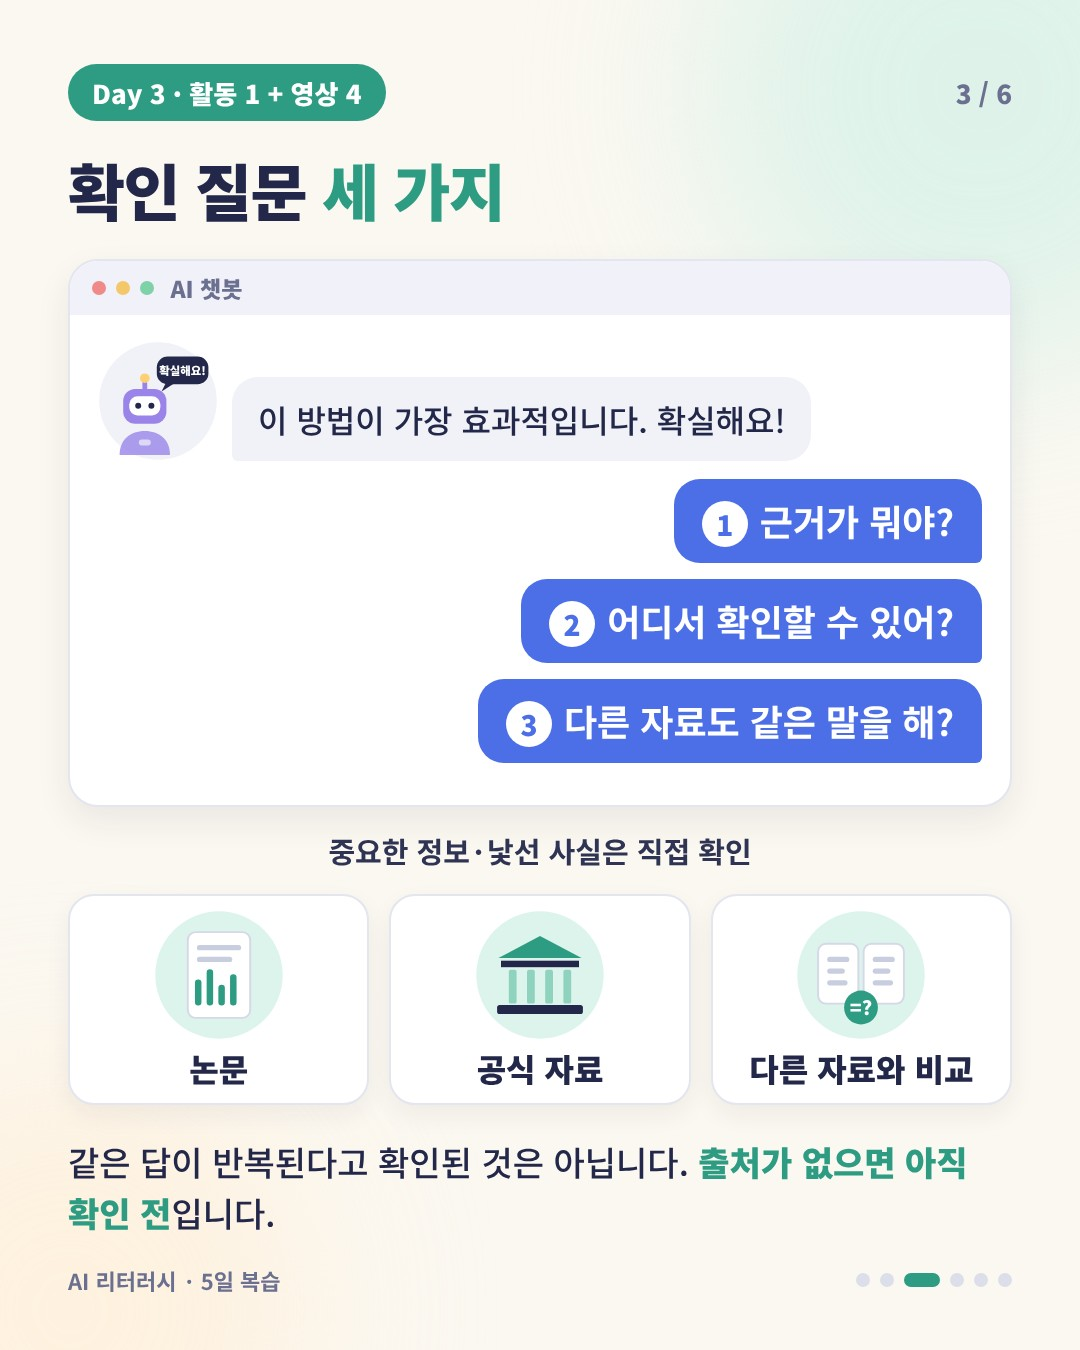
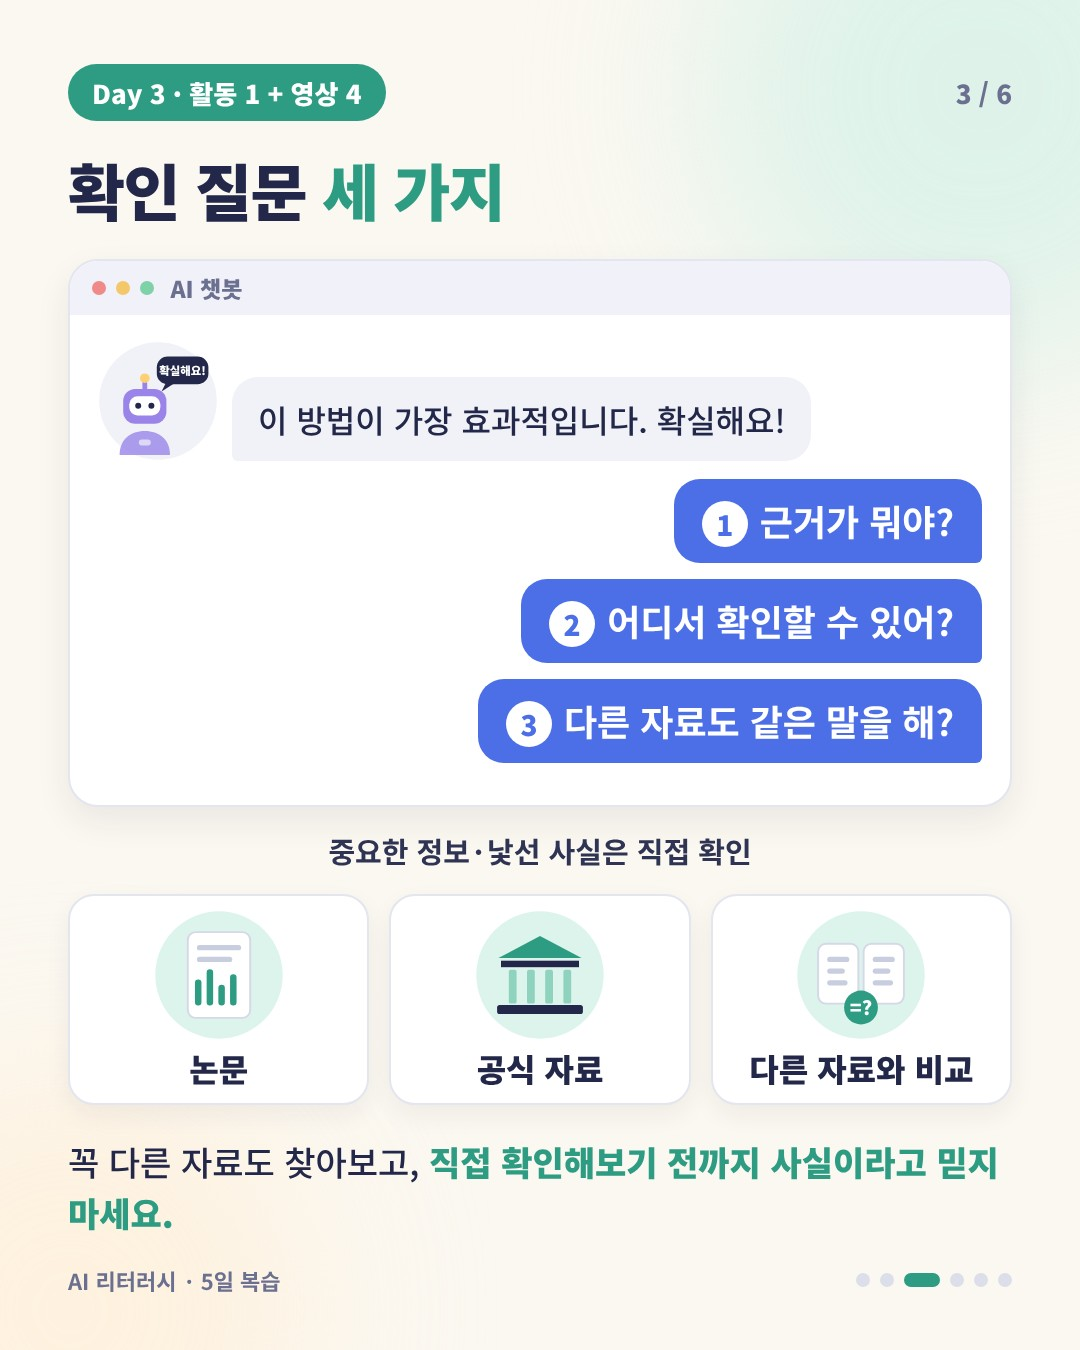
본실험 카드뉴스 Day 3 3·4번 카드 수정
Claude-Session: https://claude.ai/code/session_01Ufc7Ys7s9SLRNt97tr6RfZ

Changed region(s): [[0.0611, 0.84, 0.9472, 0.9333]]

diff --git a/daily-main.js b/daily-main.js
@@ -118,7 +118,7 @@ const cardTrial = {
     const show = () => {
       const [h, b] = D.cards[k];
       cn.innerHTML = CONFIG.CARD_IMAGES
-        ? `<img src="cards-main/day${DAY}_${k + 1}.jpg?v=1123h" alt="${esc(h + ". " + b.replace("{{change}}", ""))}">${b.includes("{{change}}") && myChange() ? `<div class="mychange">내가 적은 작은 변화: <b>${esc(myChange())}</b></div>` : ""}`
+        ? `<img src="cards-main/day${DAY}_${k + 1}.jpg?v=1123i" alt="${esc(h + ". " + b.replace("{{change}}", ""))}">${b.includes("{{change}}") && myChange() ? `<div class="mychange">내가 적은 작은 변화: <b>${esc(myChange())}</b></div>` : ""}`
         : `<div class="cn-in ${k === 0 ? "cover" : k === N - 1 ? "today" : ""}"><div class="cn-k">${k === 0 ? `Day ${DAY}` : k === N - 1 ? "오늘의 한 가지" : `${k} / ${N - 2}`}</div>
            <h2>${k === N - 1 ? "" : h}</h2><p>${b.replace("{{change}}", "")}</p>${b.includes("{{change}}") ? changeBox() : ""}</div>`;
       pos.textContent = `${k + 1} / ${N}`; prev.disabled = k === 0;

diff --git a/daily-main.html b/daily-main.html
@@ -18,6 +18,6 @@
 </head>
 <body>
 <div id="app"></div>
-<script src="daily-main.js?v=1123k"></script>
+<script src="daily-main.js?v=1123l"></script>
 </body>
 </html>
